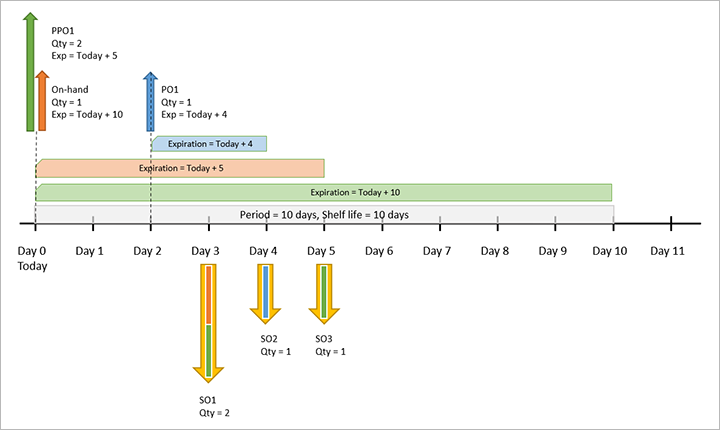
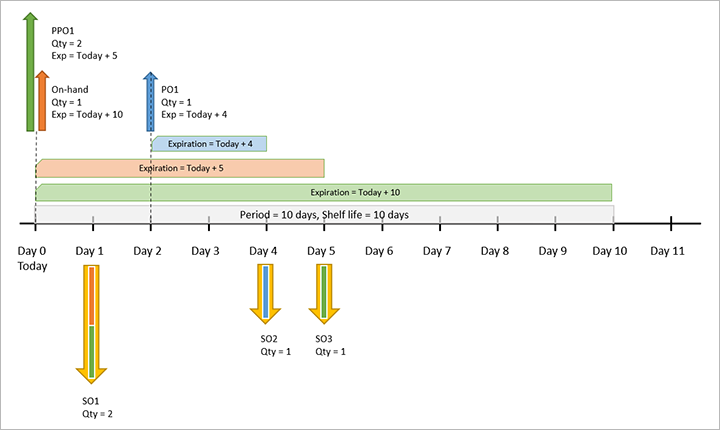
review

Changed region(s): [[0.0917, 0.6047, 0.1528, 0.9674], [0.275, 0.6047, 0.3361, 0.9674]]

diff --git a/articles/supply-chain/master-planning/planning-optimization/shelf-life.md b/articles/supply-chain/master-planning/planning-optimization/shelf-life.md
@@ -2,14 +2,14 @@
 title: Master planning for products with limited shelf life
 description: This article describes how to set up and use planning features that take into account the shelf life of perishable products.
 author: t-benebo
-ms.date: 07/22/2022
+ms.date: 08/10/2022
 ms.topic: article
 ms.search.form:
 audience: Application User
 ms.reviewer: kamaybac
 ms.search.region: Global
 ms.author: benebotg
-ms.search.validFrom: 2020-07-20
+ms.search.validFrom: 2020-08-10
 ms.dyn365.ops.version: 10.0.28
 ---
 
@@ -17,7 +17,7 @@ ms.dyn365.ops.version: 10.0.28
 
 [!include [banner](../../includes/banner.md)]
 
-Shelf life is the period of time when a product can be stored until it can no longer be used or sold. For products that have a limited shelf life, you will probably use a FEFO (first-expire-first-out) warehouse strategy, which prioritizes the consumption and sale of items based on their remaining shelf life. The method is relevant for food, medicines, and other goods that are characterized by a short storage time. According to FEFO, items in the warehouse are stored like goods on a supermarket shelf, with products that have a long shelf life placed deep into the shelves so that products with a shorter remaining shelf life are shipped first.
+Shelf life is the period of time when a product can be stored until it can no longer be used or sold. For products that have a limited shelf life, you'll probably use a FEFO (first-expire-first-out) warehouse strategy, which prioritizes the consumption and sale of items based on their remaining shelf life. The method is relevant for food, medicines, and other goods that are characterized by a short storage time. According to FEFO, items in the warehouse are stored like goods on a supermarket shelf, with products that have a long shelf life placed deep into the shelves so that products with a shorter remaining shelf life are shipped first.
 
 ## Use shelf life
 
@@ -29,7 +29,7 @@ When you run a master plan, it generates suggest planned orders (supply) that wi
 1. Maximize sum of FEFO supply
 1. Minimize replenishment of inventory
 
-In some cases there may be a conflict between the first two goals, so a choice must be made&mdash;do you want to delay a shipment or do you want to use supply that expires later rather than sooner? During master planning, the system resolves this issue by prioritizing minimal delays over using up soon-to-be-expired supply. In general, these conflicts appear when there may be delays and coverage by period. Therefore, we recommend that the shelf life for an item be longer than the period setup. Other types of coverage (such as requirement) most likely won't encounter such conflicts.
+In some cases there may be a conflict between the first two goals, so a choice must be made&mdash;do you want to delay a shipment or do you want to use supply that expires later rather than sooner? During master planning, the system resolves this issue by prioritizing minimal delays over using up soon-to-be-expired supply. In general, these conflicts appear when there may be delays and coverage by period. Therefore, we recommend using a coverage period that is shorter than the shelf life for an item. Other types of coverage (such as requirement) most likely won't encounter such conflicts.
 
 ## Set up shelf life
 
@@ -60,17 +60,17 @@ Use the following procedure to set up shelf life for a product:
 1. Go to **Product information management \> Products \> Released products**.
 1. Create or open the product you want to set up.
 1. Expand the **General** FastTab and make the following setting:
-    - **Tracking dimension group** – To use the shelf life settings, this must be set to a tracking dimension group that is set up to track the batch dimension. This can only be edited when first creating a product, you can't change it for existing products. <!-- KFM: I assumed this. Please confirm  -->
+    - **Tracking dimension group** – To use the shelf life settings, this field must be set to a tracking dimension group that is set up to track the batch dimension. You can only be specify this value when first creating a product; you can't change it for existing products.
 1. Expand the **Manage inventory** FastTab and make the following settings:
-    - **Shelf advice period in days** – Specify the period (in days) by which to check a batch of this product to ensure it is suitable for consumption or resale. This value is added to a batch's *manufacturing date* to determine its *shelf advice date*. You can configure the system to generate quality orders when a batch approaches its shelf advice date.
+    - **Shelf advice period in days** – Specify the period (in days) by which to check a batch of this product to ensure it's suitable for consumption or resale. This value is added to a batch's *manufacturing date* to determine its *shelf advice date*. You can configure the system to generate quality orders when a batch approaches its shelf advice date.
     - **Shelf life period in days** – Specify the number of days before a batch of this product expires. This value is added to the date of manufacture to get the *expiration date*. The batch is considered unusable after this date.
-    - **Best before period in days** – Specify the period (in days) after which a batch of this product is still deemed sellable but may no longer retain some of its original properties. This is subtracted from the expiration date to calculate the *best before date*. <!--KFM: Is it correct that we SUBTRACT the best before period in days from the expiration date to get the best before date? Seems like we should ADD it to the manufacture date, as with the shelf life. -->You can run reports to identify inventory that is past its *sell-by date*. <!-- KFM: are best-before and sell-by date the same? If so, we should use the same term. If not, we should explain how they are different.  -->
+    - **Best before period in days** – Specify the period (in days) after which a batch of this product is still deemed sellable but may no longer retain some of its original properties. This value is added to the date of manufacture to get the *best-before date*. You can run reports to identify inventory that is past its best-before date. 
 
 ### Set sellable days rule for each customer
 
-*Sellable days* functionality ensures that products from a batches that will soon expire aren't sent to customers. Moreover, it ensures that when products are sent to a customer, an adequate number of sellable days will still remain after delivery.
+*Sellable days* functionality ensures that products from a batch that will soon expire aren't sent to customers. Moreover, it ensures that when products are sent to a customer, an adequate number of sellable days will still remain after delivery.
 
-To use the sellable days functionality, you must define the number of sellable days that applies for each product (or group of products) for each customer. There is no data entity for this process, so you must do it manually.
+To use the sellable days functionality, you must define the number of sellable days that applies for each product (or group of products) for each customer. There's no data entity for this process, so you must do it manually.
 
 Use the following procedure to set up sellable days per product for each customer:
 
@@ -84,7 +84,7 @@ Use the following procedure to set up sellable days per product for each custome
         - *Group* – The row applies to a specific item group.
         - *All* – The row applies to all items.
     - **Item relation** – If you set the **Item code** field to *Table*, select a specific item. If you set the **Item code** field to *Group*, select an item group. If you set the **Item code** field to *All*, this 
-    - **Sellable days** – Enter the minimum number of days that the customer requires to sell matching products before the batch expires. Sellable days is based on the requested (or confirmed, if defined) receipt date for the matching products on the sales order.
+    - **Sellable days** – Enter the minimum number of days that the customer requires to sell matching products before the batch expires. The sellable days value is based on the requested (or confirmed, if defined) receipt date for the matching products on the sales order.
     - *(Other product dimensions)* – To further limit the scope of a row, specify other dimension values (such as **Size**, **Color**, and so on) as needed. You can control which dimensions are shown in the grid by selecting **Display dimensions** on the Action Pane.
 
 ### Set all relevant products to be FEFO date controlled
@@ -115,17 +115,17 @@ This example shows a basic example of shelf life, where pegging between the supp
 
 The system has the following item and master plan settings:
 
-- **Coverage code (replenishment strategy)** – Period <!--KFM: we never mention this again. Why does it matter? What does it mean? -->
-- **Coverage period** – 10 days (equal to the shelf life) <!--KFM: we never mention this again. Why does it matter? what period is this, the coverage period? -->
-- **Shelf life** – 10 days  <!--KFM: we never mention this again, though we do see it in the diagram. Why does it matter? -->
+- **Coverage code (replenishment strategy)** – Period 
+- **Coverage period** – 10 days (equal to the shelf life)
+- **Shelf life** – 10 days
 - **Sellable days** – 0 days
 - **Lead time** – 0 days
 - **Negative days** – 0 days
-- **Type of planned order (default order settings of the item)** – Purchase order <!--KFM: we never mention this again, and it's always the same. Why mention it here? -->
+- **Type of planned order (default order settings of the item)** – Purchase order
 
 There are three sales orders (SO) for the item:
 
-- **SO1** – Quantity (qty) = 2, requested delivery date = today + 3 days
+- **SO1** – Quantity (qty) = 2, requested delivery date = today + 1 day
 - **SO2** – Qty = 1, requested delivery date = today + 4 days
 - **SO3** – Qty = 1, requested delivery date =  + 5 days
 
@@ -140,7 +140,7 @@ The system will create a list of supply that can cover this demand, and it will 
 
 Master planning will create the needed pegging between supply and demand. It will also create any needed demand based on the supply list (using FEFO) and consider availability date.
 
-- SO1 can be fulfilled by on-hand quantity, but can't be fulfilled by PO1 because the availability date for PO1 is one day later than SO1 requires. As a result, SO1 generates a demand for one unit of goods. <!--KFM: Seems like PO1 actually comes one day *before* S01 is required. Seems like we should *prefer* PO1 because it expires before the others. Right? Maybe SO1 should be Today + 1 day? -->
+- SO1 can be fulfilled by on-hand quantity, but can't be fulfilled by PO1 because the availability date for PO1 is one day later than SO1 requires. As a result, SO1 generates a demand for one unit of goods.
 - SO2 can be covered by PO1 because PO1 will arrive by the requested time and the expiration date will still be valid. Therefore, the SO2 requirement is fully covered by PO1.
 - SO3 isn't covered because resources aren't available. As a result, SO3 generates a demand for one unit of goods.
 
@@ -152,7 +152,7 @@ The following table shows the final result:
 
 | Demand | Pegging |
 |---|---|
-| **SO1** – Delivery date = today + 3 days, qty = 2 | **On-hand** – Qty = 1, expiration date = today + 5 days</br>**PPO1** – Receipt date = today, qty = 1, expiration date = today + 10 days|
+| **SO1** – Delivery date = today + 1 day, qty = 2 | **On-hand** – Qty = 1, expiration date = today + 5 days</br>**PPO1** – Receipt date = today, qty = 1, expiration date = today + 10 days |
 | **SO2** – Delivery date = today + 4 days, qty = 1 | **PO1** – Receipt date = today + 2 days, 1 qty, expiration date = today + 4 days |
 | **SO3** – Delivery date = today + 5 days, qty = 1 | **PPO1** – Receipt date = today, qty = 2, expiration date = today + 10 days |
 
@@ -160,18 +160,13 @@ The following illustration shows the timeline for this example.
 
 ![Example 1: Simple FEFO, period 10 days, lead time 0 days.](media/fefo-example-1.png "Example 1: Simple FEFO, period 10 days, lead time 0 days")
 
-<!-- KFM: Illustration notes:
-- The illustration didn't match the text, so I "fixed" it. Confirm this version. 
-- Meaning of period and shelf life bar at the bottom is not clear. 
- -->
-
 ## Example 2: Simple FEFO, requirement, lead time 3 days
 
 This example illustrates how the system seeks to minimize delays, which can sometimes result in overordering.
 
 The system has the following item and master plan settings:
 
-- **Coverage code (replenishment strategy)** – Requirement <!--KFM: we never mention this again. Why does it matter? What does it mean? -->
+- **Coverage code (replenishment strategy)** – Requirement
 - **Shelf life** – 10 days
 - **Sellable days** – 0 days
 - **Lead time** – Established by the following vendor trade agreements:
@@ -191,7 +186,7 @@ This demand is covered by the existing supply and a confirmed purchase order (PO
 
 SO1 can't be fulfilled by on-hand inventory because the inventory expiration date is before the shipment date. PO1 can cover the SO1 requirement with just 1 qty. As a result, SO1 generates demand for one unit of goods. To cover this requirement, the system will create a planned purchase order (PPO1).
 
-The system has two trade agreements (the first one for qty = 1, lead time = 4 days; and the second one for qty = 2, lead time = 3 days), so the system will minimize delay by creating planned purchase order (PPO1) that meets the second trade agreement. Therefore, we will have overdelivery (qty = 2, expiration date = today + 10 days). The following table shows the final result.
+The system has two trade agreements (the first one for qty = 1, lead time = 4 days; and the second one for qty = 2, lead time = 3 days), so the system will minimize delay by creating planned purchase order (PPO1) that meets the second trade agreement. Therefore, we'll have overdelivery (qty = 2, expiration date = today + 10 days). The following table shows the final result.
 
 | Demand | Pegging |
 |---|---|
@@ -207,10 +202,10 @@ This example shows how shelf life works when adding sellable days for an item.
 
 The system has the following item and master plan settings:
 
-- **Coverage code (replenishment strategy)** – Requirement <!--KFM: we never mention this again. Why does it matter? What does it mean? -->
+- **Coverage code (replenishment strategy)** – Requirement
 - **Shelf life** – 10 days
 - **Sellable days** – 5 days
-- **Lead time** – 3 days <!--KFM: should maybe be  5 days? (to match PPO1 date?)-->
+- **Lead time** – 5 days
 - **Negative days** – 0 days
 - **Type of planned order (default order settings of the item)** – Purchase order
 
@@ -225,11 +220,11 @@ This demand can be covered by existing supply and a confirmed purchase order:
 - **On-hand inventory** – Available = today, qty = 1, expiration date = Today + 6 days
 - **PO1** – Receipt date = today + 2 days, qty = 3, expiration date = today + 10 days
 
-The system creates a list of pegging candidates based on the supply (FEFO) list and availability dates. Therefore, SO1 can't be fulfilled by the on-hand inventory because that inventory expires before the end of the sellable days required by the customer (requested receipt date + 5 days). PO1 can cover the SO1 requirement with 2 units and SO2 requirement with 1 unit. As a result, only SO3 still has uncovered demand for one unit of goods. To cover this requirement, the system will create the following planned purchase order:
+The system creates a list of pegging candidates based on the supply (FEFO) list and availability dates. Therefore, SO1 can't be fulfilled by the on-hand inventory because that inventory expires before the end of the sellable days required by the customer (requested receipt date + 5 days). PO1 can cover the SO1 requirement with two units and SO2 requirement with one unit. As a result, only SO3 still has uncovered demand for one unit of goods. To cover this requirement, the system will create the following planned purchase order:
 
 - **PP01** – Receipt date = today + 5 days, qty = 1, expiration date = today + 10 days
 
-The following table summarize the result.
+The following table summarizes the result.
 
 | Demand | Pegging |
 |---|---|
@@ -245,12 +240,10 @@ The following illustration shows the timeline for this example.
 
 This example illustrates how the system seeks to minimize delays, which can sometimes result in overordering.
 
-<!-- Seems the same as example 2, except that coverage code is period. We should explain how that makes this example different. -->
-
 The system has the following item and master plan settings:
 
-- **Coverage code (replenishment strategy)** – Period <!--KFM: we never mention this again. Why does it matter? What does it mean? -->
-- **Coverage period** – 10 days (equal to the shelf life)  <!--KFM: we never mention this again. Why does it matter? what period is this, the coverage period? -->
+- **Coverage code (replenishment strategy)** – Period
+- **Coverage period** – 10 days (equal to the shelf life)
 - **Shelf life** – 10 days
 - **Sellable days** – 0 days
 - **Lead time** – Established by the following vendor trade agreements:
@@ -275,7 +268,7 @@ The system has two trade agreements (the first one for qty = 1, lead time = 5 da
 
 SO1 will be covered by one unit from PPO1. SO2 will be covered by PO2 because PO2 expires sooner than PPO1.
 
-The following table summarize the result.
+The following table summarizes the result.
 
 | Demand | Pegging |
 |---|---|
@@ -297,13 +290,10 @@ This example shows how shelf life works when adding a large number of negative d
 
 The system has the following item and master plan settings:
 
-- **Coverage code (replenishment strategy)** – Requirement <!--KFM: we never mention this again. Why does it matter? What does it mean? -->
-- **Sellable days** – 0 days
+- **Coverage code (replenishment strategy)** – Requirement
 - **Lead time** – 0 days
 - **Negative days** – 10 days
 - **Type of planned order (default order settings of the item)** – Purchase order
-
-<!--KFM: No shelf life? -->
 
 The following sales order exists in the system:
 
@@ -313,9 +303,9 @@ This demand can be covered by existing supply from the following confirmed purch
 
 - **PO1** – Receipt date = today + 3 days, qty = 1, expiration date = today + 5 days
 
-Because the system is configured to allow 10 negative days, it will cover the demand of SO1 by using PO1 even through that will result in a delay of 3 days due to SO1 creating negative inventory until PO1 arrives. No planned order is created even though lead time is 0 and creating a PPO would reduce delays.
+Because the system is configured to allow 10 negative days, it will cover the demand of SO1 by using PO1 even through that will result in a delay of three days due to SO1 creating negative inventory until PO1 arrives. No planned order is created even though lead time is 0 and creating a PPO would reduce delays.
 
-The following table summarize the result.
+The following table summarizes the result.
 
 | Demand | Pegging |
 |---|---|
@@ -327,17 +317,15 @@ The following illustration shows the timeline for this example.
 
 ## Example 6: Simple FEFO, requirement, 5 negative days
 
-This example shows how shelf life works when a number of negative days for an item less than the shelf-life period.
+This example shows how shelf life works when the number of negative days for an item is less than its shelf-life period.
 
 The system has the following item and master plan settings:
 
-- **Coverage code (replenishment strategy)** – Requirement <!--KFM: we never mention this again. Why does it matter? What does it mean? -->
+- **Coverage code (replenishment strategy)** – Requirement
 - **Sellable days** – 0 days
 - **Lead time** – 0 days
 - **Negative days** – 5 days
 - **Type of planned order (default order settings of the item)** – Purchase order
-
-<!--KFM: No shelf life? -->
 
 The following sales order exists in the system:
 
@@ -348,24 +336,18 @@ This demand could be covered by existing supply from the following confirmed pur
 - **PO1** – Receipt date = today, qty = 1, expiration date = today + 1 day
 - **PO2** – Receipt date = today + 2 days, qty = 1, expiration date = today + 3 days
 
-However, the system must respect the restriction that shipped items can't be expired at the time of shipment, so PO1 can't be used for SO1. Therefore, the system will create the following planned purchase order to finish covering the demand for SO1:
+However, the system must respect the restriction that shipped items can't be expired at the time of shipment, so PO2 and PO1 can't both be used for SO1 because PO1 expires before PO2 arrives. Therefore, the system will create the following planned purchase order to finish covering the demand for SO1:
 
-- **PP01** – Receipt date = today, qty = 1, expiration date = today + 10 days
+- **PPO1** – Receipt date = today, qty = 1, expiration date = today + 10 days
 
-The system can take advantage of the five negative days to delay shipment of SO1 by two days, and will therefore use the existing supply from PO1 to cover the other unit for SO1. <!-- KFM: I added this. Please confirm -->
+The system could take advantage of the five negative days to use PO2 and PPO1 to cover SO1, but that would result in delaying delivery until PO2 arrives, and PO1 would expire in the meantime. Therefore the system will cover SO1 using PPO1 and PO1.
 
-The following table summarize the result.
+The following table summarizes the result.
 
 | Demand | Pegging |
 |---|---|
-| **SO1** – Delivery date = today, qty = 2 | **PO2** – Receipt date = today, qty = 1, expiration date = today + 3 days<br>**PPO1** – Receipt date = today, qty = 1, expiration date = today + 10 days |
+| **SO1** – Delivery date = today, qty = 2 | **PO1** – Receipt date = today, qty = 1, expiration date = today + 1 day<br>**PPO1** – Receipt date = today, qty = 1, expiration date = today + 10 days |
 
 The following illustration shows the timeline for this example.
 
 ![Example 6: Simple FEFO, requirement, 5 negative days.](media/fefo-example-6.png "Example 6: Simple FEFO, requirement, 5 negative days")
-
-<!-- KFM: Illustration notes:
-- Text says we don't use PO1 (because it expires before SO1 ships), so SO1 should instead use PO2 and ship at today+2 days. However, PO1 doesn't look like it actually does expire before SO1 ships (S01 ships today, PO1 expires tomorrow). Figure shows using PO1 pegged to SO1. I don't know what is going on here.
- -->
-
-<!-- KFM: Note that I have edited to always use "delivery date" when talking about SOs and "receipt date" when talking about POs and PPOs. The original wasn't consistent. Are these the correct terms? -->
